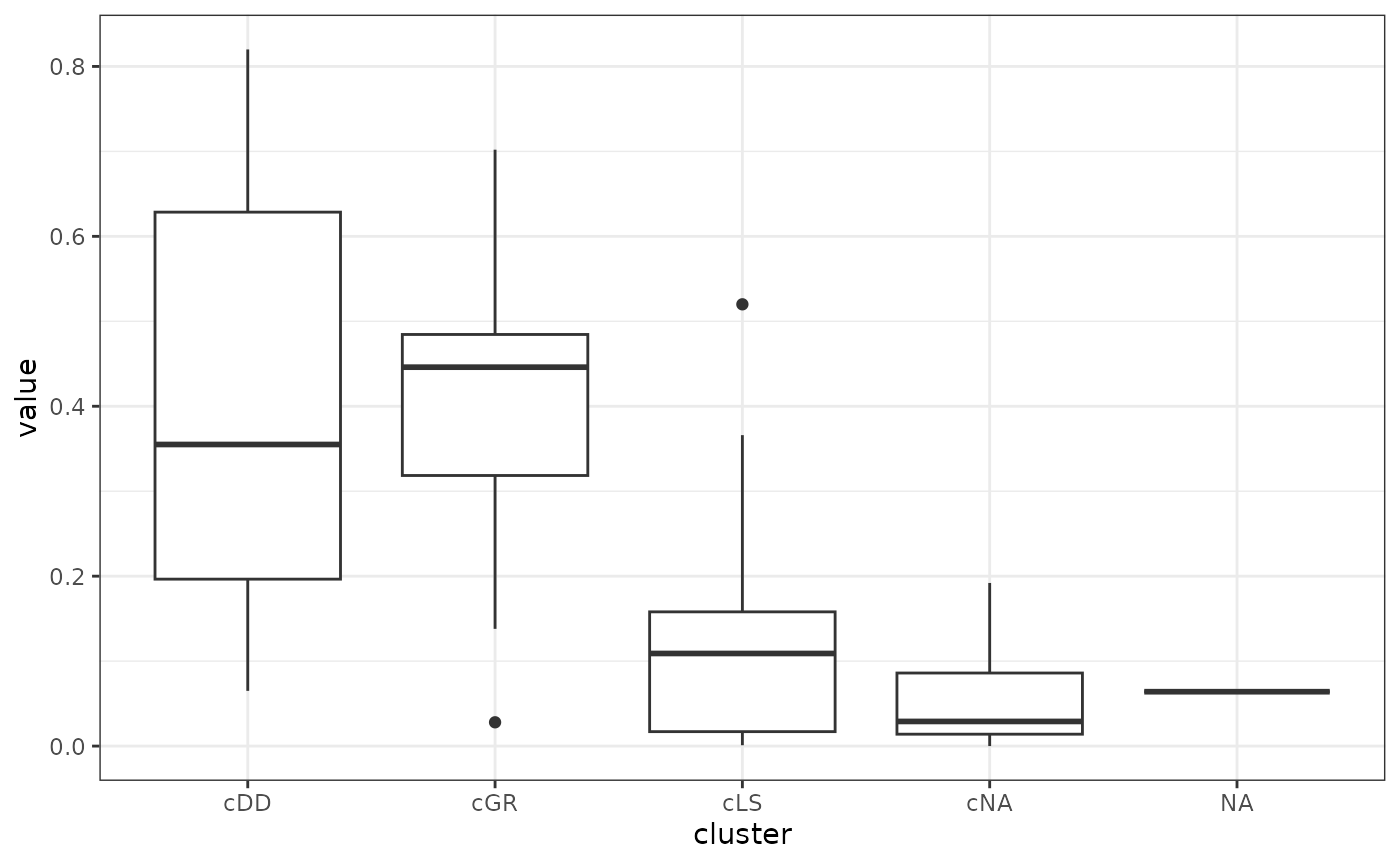
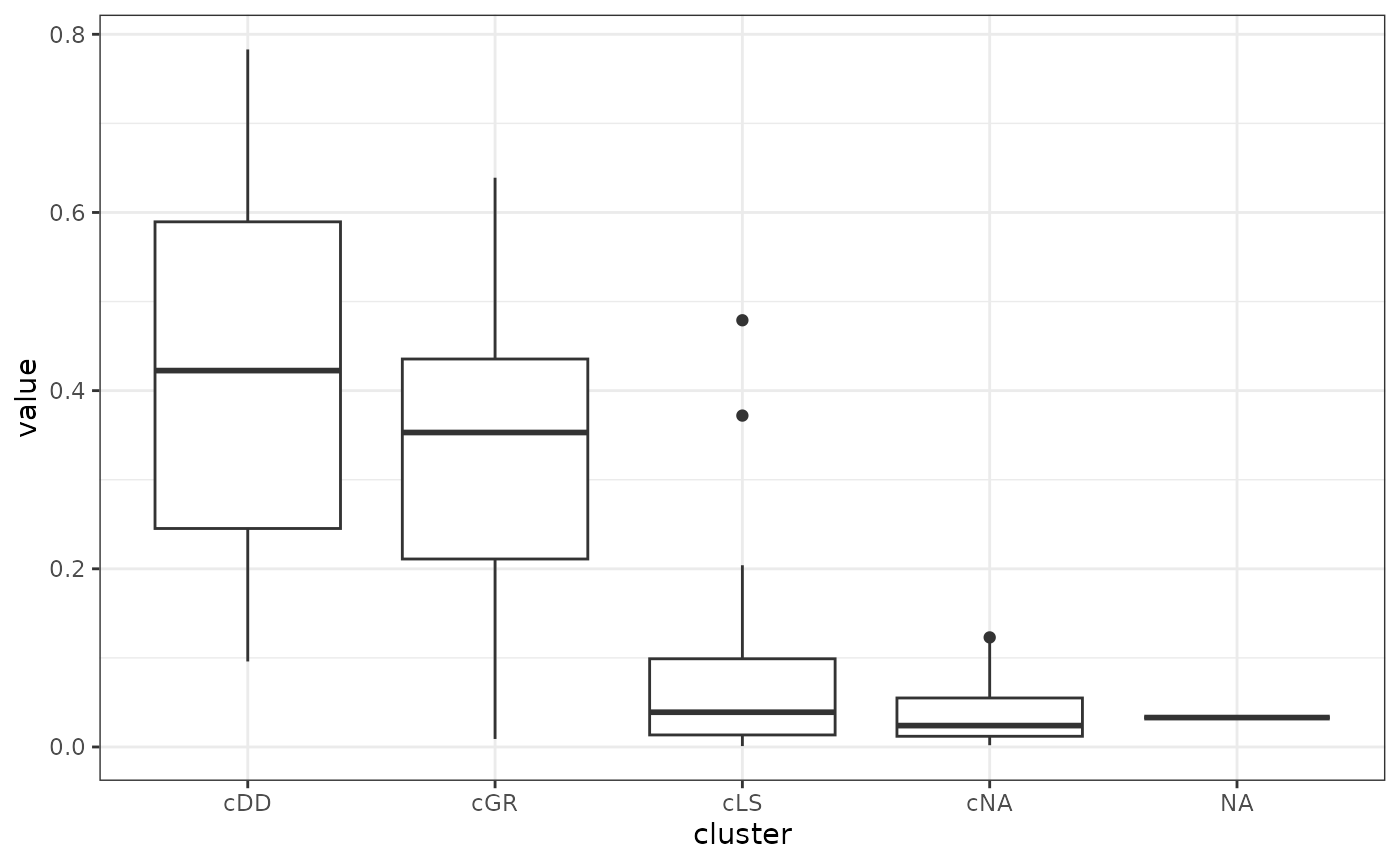
Deploying to gh-pages from @ geco-bern/index_based_drought_monitoring@660a0c53e2131228767ee60746f6a663af7ae776 🚀

diff --git a/articles/model_evaluation.html b/articles/model_evaluation.html
@@ -134,7 +134,7 @@ using a 10-fold cross validation and leave-site-out approach.</p>
 <h2 id="results">Results<a class="anchor" aria-label="anchor" href="#results"></a>
 </h2>
 <p>Scatterplot of the results, observed vs. predicted fLUE.</p>
-<pre><code><span><span class="co">## [11:38:07] WARNING: src/learner.cc:553: </span></span>
+<pre><code><span><span class="co">## [14:50:35] WARNING: src/learner.cc:553: </span></span>
 <span><span class="co">##   If you are loading a serialized model (like pickle in Python, RDS in R) generated by</span></span>
 <span><span class="co">##   older XGBoost, please export the model by calling `Booster.save_model` from that version</span></span>
 <span><span class="co">##   first, then load it back in current version. See:</span></span>
@@ -147,7 +147,7 @@ using a 10-fold cross validation and leave-site-out approach.</p>
 <div class="reactable html-widget html-fill-item" id="htmlwidget-cdc38a9a5379cb6d66d8" style="width:auto;height:auto;"></div>
 <script type="application/json" data-for="htmlwidget-cdc38a9a5379cb6d66d8">{"x":{"tag":{"name":"Reactable","attribs":{"data":{"metric":["rmse","rsq","mae"],"value":[0.096,0.737,0.062]},"columns":[{"id":"metric","name":"metric","type":"character"},{"id":"value","name":"value","type":"numeric"}],"dataKey":"1c53c62a68725380ae53778eb3cd0d6d"},"children":[]},"class":"reactR_markup"},"evals":[],"jsHooks":[]}</script><p>Comparing the fLUE response from publication (blue) and modelled
 values (dark blue).</p>
-<pre><code><span><span class="co">## [11:38:10] WARNING: src/learner.cc:553: </span></span>
+<pre><code><span><span class="co">## [14:50:39] WARNING: src/learner.cc:553: </span></span>
 <span><span class="co">##   If you are loading a serialized model (like pickle in Python, RDS in R) generated by</span></span>
 <span><span class="co">##   older XGBoost, please export the model by calling `Booster.save_model` from that version</span></span>
 <span><span class="co">##   first, then load it back in current version. See:</span></span>
@@ -161,7 +161,25 @@ values (dark blue).</p>
 </h4>
 <p>Summary statistics for the leave-site-out cross validation.</p>
 <div class="reactable html-widget html-fill-item" id="htmlwidget-2ccb819b7e600e65954d" style="width:auto;height:auto;"></div>
-<script type="application/json" data-for="htmlwidget-2ccb819b7e600e65954d">{"x":{"tag":{"name":"Reactable","attribs":{"data":{"site":["AR-Vir","AU-ASM","AU-Ade","AU-DaP","AU-DaS","AU-Dry","AU-Fog","AU-Gin","AU-How","AU-Stp","AU-Whr","AU-Wom","BE-Bra","BE-Vie","CH-Fru","CH-Lae","CH-Oe1","CN-Cng","CN-Qia","CZ-wet","DE-Akm","DE-Geb","DE-Gri","DE-Hai","DE-Kli","DE-Obe","DE-RuR","DE-Spw","DE-Tha","DK-NuF","DK-Sor","FI-Hyy","FI-Sod","FR-Fon","FR-LBr","FR-Pue","IT-Col","IT-Cp2","IT-Cpz","IT-Isp","IT-Lav","IT-MBo","IT-Noe","IT-PT1","IT-Ren","IT-Ro1","IT-SR2","IT-SRo","IT-Tor","JP-SMF","NL-Hor","NL-Loo","RU-Fyo","SD-Dem","SN-Dhr","US-GLE","US-Ha1","US-Los","US-MMS","US-Me2","US-PFa","US-SRG","US-SRM","US-Syv","US-Ton","US-UMB","US-UMd","US-Var","US-WCr","US-Wi4","ZM-Mon"],"cluster":["cGR","cDD","cGR","cDD","cGR","cGR","cDD","cGR","cGR","cDD","cGR","cLS","cNA","cNA","cNA","cNA","cLS","cLS","cGR","cLS","cLS","cLS","cNA","cLS","cNA","cNA","cNA","cNA","cNA","cNA","cLS","cNA","cNA","cLS","cGR","cGR","cLS","cGR","cGR","cNA","cNA","cNA","cGR","cLS","cLS","cGR","cLS","cGR","cLS","cNA","cLS","cLS","cLS","cDD","cDD","cLS","cNA","cNA","cLS","cLS",null,"cDD","cDD","cNA","cDD","cLS","cLS","cDD","cLS","cNA","cDD"],"rmse":[0.082,0.178,0.1,0.192,0.144,0.175,0.215,0.118,0.08,0.323,0.082,0.014,0.056,0.045,0.045,0.033,0.042,0.235,0.142,0.067,0.091,0.148,0.02,0.197,0.071,0.039,0.041,0.101,0.042,0.055,0.056,0.048,0.103,0.183,0.068,0.154,0.175,0.105,0.106,0.058,0.03,0.041,0.3,0.11,0.028,0.196,0.043,0.086,0.026,0.027,0.056,0.038,0.052,0.22,0.188,0.024,0.114,0.07,0.176,0.092,0.07,0.203,0.211,0.031,0.16,0.186,0.231,0.33,0.123,0.029,0.249],"rsq":[0.14,0.065,0.702,0.682,0.567,0.446,0.575,0.327,0.629,0.355,0.468,0.212,0.014,0.028,0.086,0.122,0.157,0.004,0.028,0.004,0.061,0.001,0.018,0.109,0.028,0.029,0.013,0.093,0.192,0.01,0.083,0.05,0.104,0.159,0.138,0.362,0.116,0.446,0.465,0.016,0.003,0.073,0.501,0.016,0.005,0.31,0.52,0.408,0.199,0.058,0.114,0.01,0.136,0.178,0.199,0.043,0.119,0.056,0.261,0.018,0.064,0.345,0.372,0.001,0.772,0.143,0.366,0.82,0.063,0,0.194],"mae":[0.055,0.137,0.077,0.151,0.11,0.149,0.18,0.095,0.063,0.287,0.065,0.01,0.036,0.033,0.035,0.026,0.032,0.2,0.108,0.046,0.069,0.109,0.016,0.143,0.052,0.03,0.029,0.066,0.027,0.049,0.039,0.033,0.083,0.128,0.046,0.092,0.127,0.075,0.066,0.043,0.023,0.031,0.214,0.091,0.022,0.13,0.028,0.054,0.02,0.02,0.043,0.027,0.038,0.184,0.147,0.017,0.069,0.052,0.125,0.074,0.046,0.17,0.171,0.024,0.13,0.142,0.178,0.261,0.087,0.022,0.194]},"columns":[{"id":"site","name":"site","type":"character"},{"id":"cluster","name":"cluster","type":"character"},{"id":"rmse","name":"rmse","type":"numeric"},{"id":"rsq","name":"rsq","type":"numeric"},{"id":"mae","name":"mae","type":"numeric"}],"dataKey":"6a11641040274598bcd6032d5fdcb238"},"children":[]},"class":"reactR_markup"},"evals":[],"jsHooks":[]}</script><p><img src="model_evaluation_files/figure-html/unnamed-chunk-5-1.png" width="700"></p>
+<script type="application/json" data-for="htmlwidget-2ccb819b7e600e65954d">{"x":{"tag":{"name":"Reactable","attribs":{"data":{"site":["AR-Vir","AU-ASM","AU-Ade","AU-DaP","AU-DaS","AU-Dry","AU-Fog","AU-Gin","AU-How","AU-Stp","AU-Whr","AU-Wom","BE-Bra","BE-Vie","CH-Fru","CH-Lae","CH-Oe1","CN-Cng","CN-Qia","CZ-wet","DE-Akm","DE-Geb","DE-Gri","DE-Hai","DE-Kli","DE-Obe","DE-RuR","DE-Spw","DE-Tha","DK-NuF","DK-Sor","FI-Hyy","FI-Sod","FR-Fon","FR-LBr","FR-Pue","IT-Col","IT-Cp2","IT-Cpz","IT-Isp","IT-Lav","IT-MBo","IT-Noe","IT-PT1","IT-Ren","IT-Ro1","IT-SR2","IT-SRo","IT-Tor","JP-SMF","NL-Hor","NL-Loo","RU-Fyo","SD-Dem","SN-Dhr","US-GLE","US-Ha1","US-Los","US-MMS","US-Me2","US-PFa","US-SRG","US-SRM","US-Syv","US-Ton","US-UMB","US-UMd","US-Var","US-WCr","US-Wi4","ZM-Mon"],"cluster":["cGR","cDD","cGR","cDD","cGR","cGR","cDD","cGR","cGR","cDD","cGR","cLS","cNA","cNA","cNA","cNA","cLS","cLS","cGR","cLS","cLS","cLS","cNA","cLS","cNA","cNA","cNA","cNA","cNA","cNA","cLS","cNA","cNA","cLS","cGR","cGR","cLS","cGR","cGR","cNA","cNA","cNA","cGR","cLS","cLS","cGR","cLS","cGR","cLS","cNA","cLS","cLS","cLS","cDD","cDD","cLS","cNA","cNA","cLS","cLS",null,"cDD","cDD","cNA","cDD","cLS","cLS","cDD","cLS","cNA","cDD"],"rmse":[0.081,0.191,0.117,0.187,0.175,0.175,0.212,0.118,0.109,0.291,0.084,0.024,0.065,0.048,0.051,0.065,0.05,0.228,0.147,0.075,0.096,0.15,0.036,0.193,0.081,0.042,0.06,0.111,0.046,0.067,0.067,0.049,0.103,0.18,0.089,0.152,0.172,0.1,0.116,0.078,0.033,0.051,0.3,0.114,0.035,0.199,0.051,0.083,0.039,0.046,0.064,0.041,0.053,0.226,0.247,0.065,0.122,0.078,0.176,0.096,0.078,0.19,0.206,0.043,0.119,0.184,0.221,0.26,0.133,0.045,"NaN"],"rsq":[0.116,0.122,0.639,0.628,0.478,0.408,0.393,0.353,0.403,0.384,0.526,0.02,0.005,0.055,0.053,0.119,0.039,0.014,0.009,0.003,0.039,0.001,0.007,0.107,0.021,0.049,0.123,0.021,0.075,0.005,0.055,0.015,0.069,0.135,0.156,0.337,0.082,0.437,0.233,0.024,0.011,0.036,0.434,0.001,0.001,0.189,0.479,0.246,0.036,0.023,0.036,0.007,0.091,0.096,0.199,0.022,0.078,0.054,0.204,0.013,0.033,0.452,0.474,0.002,0.774,0.132,0.372,0.783,0.057,0.012,"NA"],"mae":[0.056,0.149,0.09,0.138,0.139,0.139,0.172,0.092,0.087,0.25,0.067,0.017,0.042,0.036,0.04,0.049,0.039,0.184,0.112,0.053,0.073,0.108,0.028,0.142,0.06,0.031,0.043,0.079,0.03,0.06,0.05,0.035,0.081,0.129,0.062,0.094,0.125,0.069,0.075,0.061,0.025,0.034,0.215,0.092,0.027,0.134,0.033,0.056,0.029,0.034,0.051,0.03,0.039,0.186,0.188,0.038,0.077,0.059,0.125,0.077,0.055,0.154,0.164,0.033,0.097,0.138,0.169,0.205,0.094,0.036,"NaN"]},"columns":[{"id":"site","name":"site","type":"character"},{"id":"cluster","name":"cluster","type":"character"},{"id":"rmse","name":"rmse","type":"numeric"},{"id":"rsq","name":"rsq","type":"numeric"},{"id":"mae","name":"mae","type":"numeric"}],"dataKey":"e747cb24252f47319c3f8463f6deeb3f"},"children":[]},"class":"reactR_markup"},"evals":[],"jsHooks":[]}</script><p><img src="model_evaluation_files/figure-html/unnamed-chunk-5-1.png" width="700"></p>
+</div>
+<div class="section level3">
+<h3 id="regression-model-landsat">Regression model landsat<a class="anchor" aria-label="anchor" href="#regression-model-landsat"></a>
+</h3>
+</div>
+</div>
+<div class="section level2">
+<h2 id="results-1">Results<a class="anchor" aria-label="anchor" href="#results-1"></a>
+</h2>
+<p>Scatterplot of the results, observed vs. predicted fLUE.</p>
+<p><img src="model_evaluation_files/figure-html/unnamed-chunk-6-1.png" width="700"></p>
+<p>Table of the regression metrics.</p>
+<div class="section level4">
+<h4 id="landsat-leave-site-out-summary-stats">Landsat Leave-site-out summary stats<a class="anchor" aria-label="anchor" href="#landsat-leave-site-out-summary-stats"></a>
+</h4>
+<p>Summary statistics for the leave-site-out cross validation.</p>
+<div class="reactable html-widget html-fill-item" id="htmlwidget-87f1b91e7757ebe79ac1" style="width:auto;height:auto;"></div>
+<script type="application/json" data-for="htmlwidget-87f1b91e7757ebe79ac1">{"x":{"tag":{"name":"Reactable","attribs":{"data":{"site":["AR-Vir","AU-ASM","AU-Ade","AU-DaP","AU-DaS","AU-Dry","AU-Fog","AU-Gin","AU-How","AU-Stp","AU-Whr","AU-Wom","BE-Bra","BE-Vie","CH-Fru","CH-Lae","CH-Oe1","CN-Cng","CN-Qia","CZ-wet","DE-Akm","DE-Geb","DE-Gri","DE-Hai","DE-Kli","DE-Obe","DE-RuR","DE-Spw","DE-Tha","DK-Sor","FI-Hyy","FI-Sod","FR-Fon","FR-LBr","FR-Pue","IT-Col","IT-Cp2","IT-Cpz","IT-Isp","IT-Lav","IT-MBo","IT-Noe","IT-PT1","IT-Ren","IT-Ro1","IT-SR2","IT-SRo","IT-Tor","JP-SMF","NL-Hor","NL-Loo","RU-Fyo","SD-Dem","SN-Dhr","US-GLE","US-Ha1","US-Los","US-MMS","US-Me2","US-SRG","US-SRM","US-Syv","US-Ton","US-UMB","US-UMd","US-Var","US-WCr","US-Wi4","ZM-Mon"],"cluster":["cGR","cDD","cGR","cDD","cGR","cGR","cDD","cGR","cGR","cDD","cGR","cLS","cNA","cNA","cNA","cNA","cLS","cLS","cGR","cLS","cLS","cLS","cNA","cLS","cNA","cNA","cNA","cNA","cNA","cLS","cNA","cNA","cLS","cGR","cGR","cLS","cGR","cGR","cNA","cNA","cNA","cGR","cLS","cLS","cGR","cLS","cGR","cLS","cNA","cLS","cLS","cLS","cDD","cDD","cLS","cNA","cNA","cLS","cLS","cDD","cDD","cNA","cDD","cLS","cLS","cDD","cLS","cNA","cDD"],"rmse":[0.067,0.205,0.102,0.192,0.176,0.156,0.242,0.137,0.173,0.294,0.089,0.052,0.074,0.056,0.055,0.052,0.063,0.279,0.182,0.173,0.115,0.239,0.042,0.179,0.129,0.061,0.078,0.101,0.049,0.074,0.053,0.2,0.234,0.069,0.161,0.147,0.134,0.091,0.082,0.067,0.089,0.281,0.115,0.043,0.184,0.055,0.079,0.188,0.047,0.078,0.057,0.077,0.245,0.175,0.052,0.092,0.16,0.19,0.123,0.171,0.149,0.076,0.124,0.167,0.192,0.21,0.183,0.03,0.293],"rsq":[0.527,0.044,0.568,0.508,0.521,0.485,0.41,0.283,0.003,0.21,0.559,0.54,0.059,0.027,0.011,0.007,0.061,0.025,0.233,0.03,0.006,0.097,0.158,0.184,0.004,0.085,0.002,0.21,0.013,0.244,0.173,0.036,0.046,0.238,0.459,0.296,0.418,0.36,0.061,0.005,0.086,0.581,0.071,0.057,0.244,0.412,0.364,0.028,0.098,0.085,0.011,0.202,0.037,0.415,0.047,0.038,0.039,0.144,0.032,0.393,0.35,0.02,0.754,0.068,0.319,0.748,0.065,0.476,0.674],"mae":[0.053,0.176,0.084,0.153,0.144,0.125,0.203,0.106,0.145,0.25,0.075,0.041,0.058,0.041,0.043,0.043,0.05,0.243,0.159,0.112,0.095,0.178,0.036,0.127,0.096,0.043,0.062,0.084,0.037,0.054,0.038,0.163,0.139,0.051,0.106,0.092,0.11,0.067,0.067,0.053,0.065,0.203,0.094,0.033,0.133,0.037,0.06,0.128,0.036,0.067,0.046,0.059,0.213,0.145,0.039,0.068,0.111,0.131,0.095,0.131,0.119,0.051,0.099,0.113,0.136,0.158,0.124,0.025,0.219]},"columns":[{"id":"site","name":"site","type":"character"},{"id":"cluster","name":"cluster","type":"character"},{"id":"rmse","name":"rmse","type":"numeric"},{"id":"rsq","name":"rsq","type":"numeric"},{"id":"mae","name":"mae","type":"numeric"}],"dataKey":"4e6181cdb2834ef734a30cb2adf08f47"},"children":[]},"class":"reactR_markup"},"evals":[],"jsHooks":[]}</script><p><img src="model_evaluation_files/figure-html/unnamed-chunk-8-1.png" width="700"></p>
 </div>
 </div>
   </div>

diff --git a/articles/VIP_selection.html b/articles/VIP_selection.html
@@ -99,7 +99,7 @@ Hufkens</h4>
     
 <p>Quick overview of variables of importance, ranked according to
 contribution.</p>
-<pre><code><span><span class="co">## [11:38:01] WARNING: src/learner.cc:553: </span></span>
+<pre><code><span><span class="co">## [14:50:29] WARNING: src/learner.cc:553: </span></span>
 <span><span class="co">##   If you are loading a serialized model (like pickle in Python, RDS in R) generated by</span></span>
 <span><span class="co">##   older XGBoost, please export the model by calling `Booster.save_model` from that version</span></span>
 <span><span class="co">##   first, then load it back in current version. See:</span></span>
@@ -107,7 +107,7 @@ contribution.</p>
 <span><span class="co">##     https://xgboost.readthedocs.io/en/latest/tutorials/saving_model.html</span></span>
 <span><span class="co">## </span></span>
 <span><span class="co">##   for more details about differences between saving model and serializing.</span></span></code></pre>
-<pre><code><span><span class="co">## [11:38:01] WARNING: src/learner.cc:553: </span></span>
+<pre><code><span><span class="co">## [14:50:29] WARNING: src/learner.cc:553: </span></span>
 <span><span class="co">##   If you are loading a serialized model (like pickle in Python, RDS in R) generated by</span></span>
 <span><span class="co">##   older XGBoost, please export the model by calling `Booster.save_model` from that version</span></span>
 <span><span class="co">##   first, then load it back in current version. See:</span></span>
